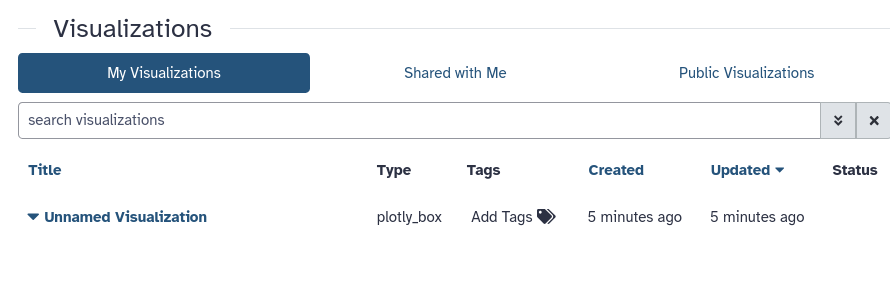
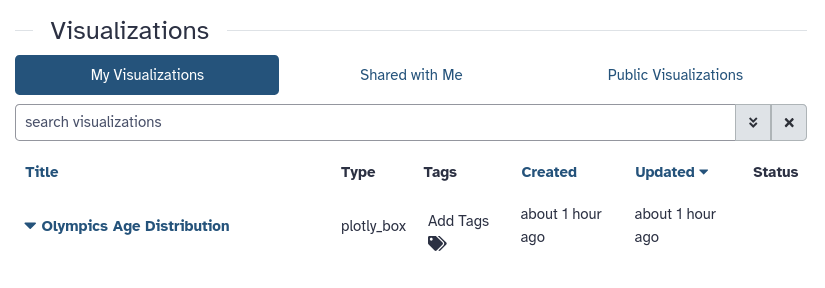
tweak tutorial

diff --git a/topics/introduction/tutorials/galaxy-intro-rdm/tutorial.md b/topics/introduction/tutorials/galaxy-intro-rdm/tutorial.md
@@ -152,7 +152,8 @@ Before we begin, let's name our history. It is recommended to create a new histo
 >
 >    ![Screenshot of the galaxy interface with the history name being edited, it currently reads "Unnamed history", the default value. An input box is below it.]({% link shared/images/rename_history.png %}){:width="250px"}
 >
-> 3. Type in a new name, for example, "Olympics Data Analysis"
+> 3. Type in a new name. Make sure it is a descriptive name.
+>    - for example, `Olympics Data Analysis`
 > 4. Click **Save**
 >
 > > <comment-title>Renaming not an option?</comment-title>
@@ -175,12 +176,13 @@ Before we begin, let's name our history. It is recommended to create a new histo
 >   - OMERO (Image database)
 >   - Copernicus (Climate Data)
 >   - CERN Open Data (Particle Physics)
+>   - Zenodo (general purpose publishing platform)
 >   - many more (See "Get Data" section of the Tool panel in Galaxy)
 > - **Bring-your-own-data** (e.g. Dropbox, Google Drive, OneData, eLabFTW)
 >
 >   {% snippet faqs/galaxy/manage_your_repositories.md %}
 >
-> - Connections to your **LIMS** system
+> - Connections to your **LIMS** (Laboratory Information Management System)
 >
 >   {% snippet faqs/galaxy/importing-data-from-sierra-lims.md %}
 >
@@ -396,7 +398,10 @@ In addition, it shows which tool produced this output, complete with exact param
 > > 1. Version 2.1. This can be found under *"Job Information -> Galaxy Tool ID"*, where the last part is the version. E.g. `toolshed.g2.bx.psu.edu/repos/devteam/column_maker/Add_a_column1/2.1`. Note that this may be different for you if a newer version has been released since writing this tutorial.
 > > 2. The command that is run can be found under *"Job Information -> Command Line"*. It will be something like:
 > >    ```
-> >    python '/opt/galaxy/shed_tools/toolshed.g2.bx.psu.edu/repos/devteam/column_maker/aff5135563c6/column_maker/column_maker.py' --column-types int,str,str,int,float,float,str,str,str,int,str,str,str,str,str  --header --file '/data/jwd07/main/097/599/97599988/configs/tmp1vp1f4gh' --fail-on-non-existent-columns --fail-on-non-computable '/data/dnb12/galaxy_db/files/7/a/6/dataset_7a6bad76-3181-45e2-a460-31cbe2a6e4a3.dat' '/data/jwd07/main/097/599/97599988/outputs/dataset_5ce07003-fe0c-4836-8f16-b64f25dc9219.dat'
+> >    python '/opt/galaxy/shed_tools/toolshed.g2.bx.psu.edu/repos/devteam/column_maker/aff5135563c6/column_maker/column_maker.py'
+> >    --column-types int,str,str,int,float,float,str,str,str,int,str,str,str,str,str  --header --file '/data/jwd07/main/097/599/97599988/configs/
+> >    tmp1vp1f4gh' --fail-on-non-existent-columns --fail-on-non-computable '/data/dnb12/galaxy_db/files/7/a/6/dataset_7a6bad76-3181-45e2-a460-
+> >    31cbe2a6e4a3.dat' '/data/jwd07/main/097/599/97599988/outputs/dataset_5ce07003-fe0c-4836-8f16-b64f25dc9219.dat'
 > >    ```
 > {: .solution}
 {: .question}
@@ -418,6 +423,8 @@ In addition, it shows which tool produced this output, complete with exact param
 >
 > 4. In the "Tracks" tab, change **Column of y-axis values** to `Column: 16` (our new age column)
 >
+>    ![track configuration]({% link topics/introduction/images/galaxy-intro-rdm/visualise-track.png %})
+>
 {: .hands_on}
 
 This is a quick way to get a feeling for our data.
@@ -436,16 +443,25 @@ This is a quick way to get a feeling for our data.
 
 > <tip-title> Save your visualisation </tip-title>
 >
-> 1. Click on the **Save** {% icon cloud-upload %} icon at the top-right
+> 1. **Name** your visualisation in the "Settings" tab. You can also set the axis labels here
+>    - *"Title"*: `Olympics Age Distribution`
+>    - *"X-Axis Label"*: `2010 Winter Olympics`
+>    - *"Y-Axis Label"*: `Age in years`
+>
+>    ![plot settings]({% link topics/introduction/images/galaxy-intro-rdm/visualise-settings.png %})
+>
+> 2. Click on the **Save** {% icon cloud-upload %} icon at the top-right
 >
 >    ![visualisation save button]({% link topics/introduction/images/galaxy-intro-rdm/viz-save.png %})
 >
-> 2. In the Activity bar, click on **Visualization**
-> 3. Click on **Saved Visualizations** at the top of the panel
+>    Your visualisation has now been saved to your account. To find it back:
+>
+> 3. In the **Activity bar**, click on **Visualization** {% icon galaxy-visualise %}
+> 4. Click on **Saved Visualizations** at the top of the panel
 >
 >    ![saved visualisations]({% link topics/introduction/images/galaxy-intro-rdm/visualisations-saved.png %})
 >
-> 4. Here you will find your saved visualisations
+> 5. Here you will find your saved visualisations
 >    - Here you can view, adjust, and rename your previously saved visualisaions
 >
 >    ![saved visualisations list]({% link topics/introduction/images/galaxy-intro-rdm/visualisations-list.png %})
@@ -473,10 +489,11 @@ We will import another file from Zenodo, but in a slightly different way. Instea
 >
 >      ![choose from repositories button]({% link topics/introduction/images/galaxy-intro-rdm/zenodo-search.png %})
 >
->    - Select the file `olympics-2008-summer.tsv`
+>    - Check the file `olympics-2008-summer.tsv`
 >
 >      ![choose from repositories button]({% link topics/introduction/images/galaxy-intro-rdm/zenodo-repo-import.png %})
 >
+>    - Click **Select**
 >    - Click **Start**
 >    - Close the upload window
 >
@@ -651,7 +668,7 @@ If you have failed items in your history, you might want to delete them. This he
 > > 1. Click on  **include deleted** {% icon galaxy-delete %} at the top of your history
 > >    - so not on the dataset, but at the top of the history panel
 > >    - you will see the deleted dataset appear in your history again
-> >   - if you expand the deleted dataset, the delete icon has turned into an undelete icon
+> >    - if you expand the deleted dataset, the delete icon has turned into an undelete icon {% icon galaxy-undelete %}
 > >
 > >    ![history option to include deleted datasets]({% link topics/introduction/images/galaxy-intro-rdm/history-include-deleted.png %})
 > >
@@ -695,7 +712,7 @@ In this **optional section**, we will show you how to use such an interactive to
 
 > <hands-on-title> Launch OpenRefine </hands-on-title>
 >
-> 1. Click on **Interactive Tools** in the **Activity Bar**
+> 1. Click on **Interactive Tools** {% icon galaxy-interactive-tool %} in the **Activity Bar**
 > 2. Search for OpenRefine
 >
 >    ![OpenRefine Interactive tool search result]({% link topics/introduction/images/galaxy-intro-rdm/openrefine-search.png %})
@@ -704,7 +721,7 @@ In this **optional section**, we will show you how to use such an interactive to
 >    - *"Input file in tabular format"*: `2010 Winter Olympics Vancouver`
 >    - **Run** {% icon workflow-run %} the tool
 >
-> 4. Click on **Interactive Tools** in the **Activity Bar** again
+> 4. Click on **Interactive Tools** {% icon galaxy-interactive-tool %} in the **Activity Bar** again
 >    - It may take a little time to start
 >
 > 5. Once it has started, click on the name to open it
@@ -865,7 +882,7 @@ You may have noticed in our first history that the results from the **Compute** 
 
 > <hands-on-title> Add dataset tags </hands-on-title>
 >
-> 1. Add two **dataset tags** {% icon galaxy-tags %} to the Winter Olympics file
+> 1. Add three **dataset tags** {% icon galaxy-tags %} to the Winter Olympics file
 >    - Make sure all tags start with a hashtag (`#`), then they will also be added to any datasets derived from it during analysis.
 >    - tag 1: `#winter`
 >    - tag 2: `#Vancouver`
@@ -916,7 +933,7 @@ In order to easily run analysis on multiple datasets at once, we can create *dat
 >    {% snippet faqs/galaxy/collections_autobuild_list.md %}
 >
 > 2. Your history now has a single item in it
->    - It tells you what is inside *"a list with 2 tabular datasets"*
+>    - It tells you what is inside: *"a list with 2 tabular datasets"*
 >
 >    ![collection history item]({% link topics/introduction/images/galaxy-intro-rdm/collection-new.png %})
 >
@@ -961,11 +978,11 @@ Remember that you starred {% icon galaxy-star %} the compute tool, so you can us
 >
 > > <question-title> What is our output? </question-title>
 > >
-> > 1. How many outputs were created? Are the files the same as before?
+> > 1. How many outputs were created? Are the files the same as in our first history?
 > > 2. What happened with the tags?
 > >
 > > > <solution-title></solution-title>
-> > > 1. One output collection was created, with two files inside. The files themselves are the same as before.
+> > > 1. One output collection was created, with two files inside. The files themselves are the same as before (a new 'age' column added at the end).
 > > > 2. The tags from our input datasets were also added to the results
 > > >
 > > {: .solution}
@@ -1055,8 +1072,8 @@ Let's do some analysis based on our plan.
 >    - it should look something like this:
 >
 >      ```
->      #sum 	mean 	stdev 	0% 	25% 50% 75% 100%
->      114999 	26.1243 5.01207 15 	23 	25 	29 	51
+>      #sum	mean	stdev	0%	25%	50%	75%	100%
+>      114999	26.1243	5.01207	15	23	25	29	51
 >      ```
 >
 > > <question-title> </question-title>
@@ -1102,7 +1119,7 @@ input dataset. Since we are only interested in the age column, we will extract t
 >
 >
 > 3. {% tool [Histogram with ggplot2](toolshed.g2.bx.psu.edu/repos/iuc/ggplot2_histogram/ggplot2_histogram/3.5.1+galaxy1) %} with the following parameters:
->    - *"Input"*: The output from **Remove columns** {% icon tool %} (This is a **collection input** {% icon param-collection %})
+>    - {% icon param-collection %} *"Input"*: The output from **Remove columns** {% icon tool %} (This is a **collection input** {% icon param-collection %})
 >    - *"Plot title"*: enter a good title, e.g. `Age distribution of athletes`
 >    - *"Label for x axis"*: `Age`
 >    - *"Label for y axis"*: `Count`

diff --git a/faqs/galaxy/support_admins.md b/faqs/galaxy/support_admins.md
@@ -10,8 +10,8 @@ If you suspect there is something wrong with the server, or would like to reques
 
 - **Tool error?** Please follow these [troubleshooting steps]({% link faqs/galaxy/analysis_troubleshooting.md %})
 - Each Galaxy server has different contact procedures, here are the contact options for the 3 biggest servers:
-  - **Galaxy US:** [Gitter channel](https://gitter.im/galaxyproject/Lobby)
-  - **Galaxy EU:** [Gitter channel](https://gitter.im/usegalaxy-eu/Lobby), [Request TIaaS](https://usegalaxy.eu/tiaas/)
-  - **Galaxy AU:** [Email](mail:help@genome.edu.au), [Request a tool](https://request.usegalaxy.org.au/), [Request Data Quota](https://docs.google.com/forms/d/e/1FAIpQLSeiw6ajmkezLCwbXc3OFQEU3Ai9hGnBd967u9YbQ8ANPgvatA/viewform)
+  - **Galaxy US:** [Matrix channel](https://matrix.to/#/#galaxyproject_Lobby:gitter.im)
+  - **Galaxy EU:** [Matrix channel](https://matrix.to/#/#usegalaxy-eu_Lobby:gitter.im), [Request TIaaS](https://usegalaxy.eu/tiaas/)
+  - **Galaxy AU:** [Email](mailto:help@genome.edu.au), [Request a tool](https://request.usegalaxy.org.au/), [Request Data Quota](https://docs.google.com/forms/d/e/1FAIpQLSeiw6ajmkezLCwbXc3OFQEU3Ai9hGnBd967u9YbQ8ANPgvatA/viewform)
   - **Galaxy FR:** [Request TIaaS](https://usegalaxy.fr/tiaas/)
   - Other Galaxy servers? Check the homepage for more information.
